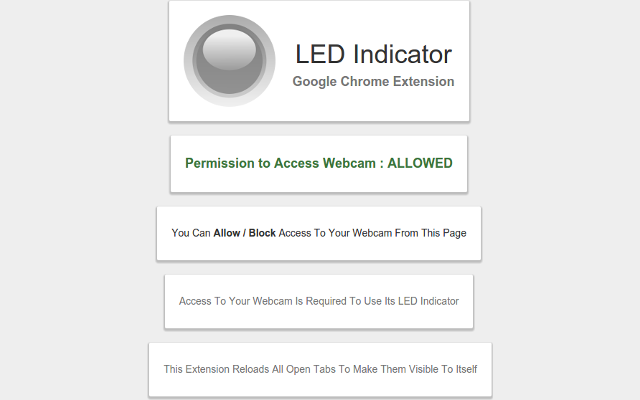
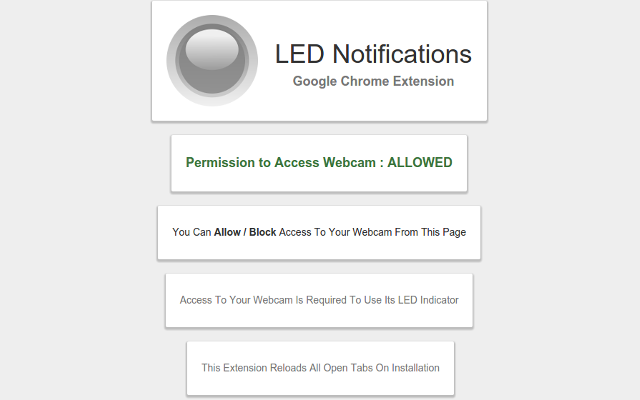
Updated Texts

diff --git a/html/options.html b/html/options.html
@@ -8,7 +8,7 @@
 <body class="text-center">
     <div class="box">
         <div class="vertical-center"><img src="/icons/128.png"></div>
-        <div class="vertical-center"><h1>LED Indicator</h1><h4 class="text-muted">Google Chrome Extension</small></h4></div>
+        <div class="vertical-center"><h1>LED Notifications</h1><h4 class="text-muted">Google Chrome Extension</small></h4></div>
     </div>
     <br>
     <div class="box">
@@ -24,7 +24,7 @@
     </div>
     <br>
     <div class="box">
-        <div class="vertical-center"><h5 class="text-muted">This Extension Reloads All Open Tabs To Make Them Visible To Itself</h5></div>
+        <div class="vertical-center"><h5 class="text-muted">This Extension Reloads All Open Tabs On Installation</h5></div>
     </div>
 </body>
 </html>
